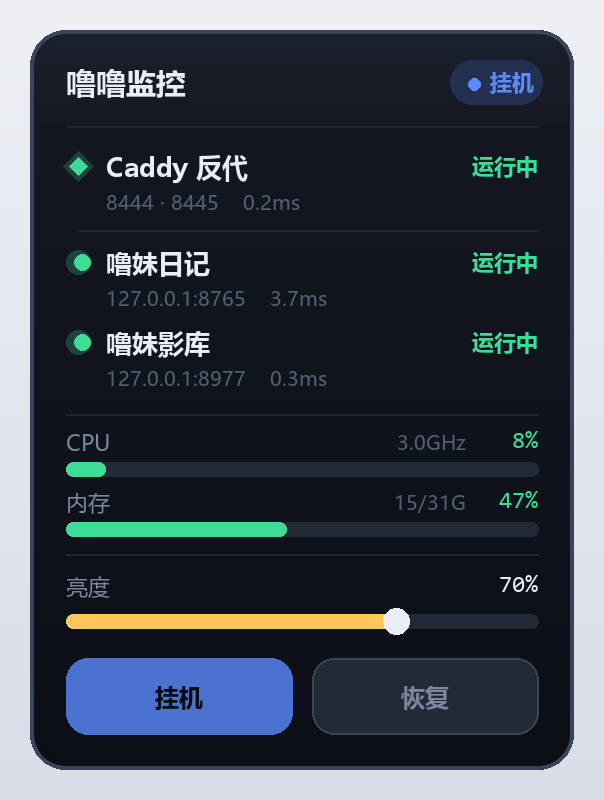
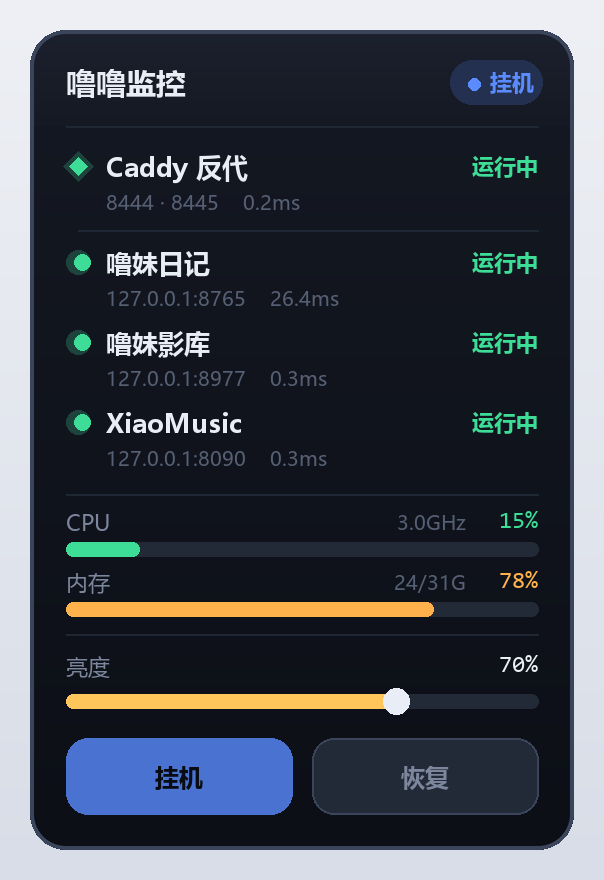
feat(widget): 服务区加一行 XiaoMusic（8090）
原来服务区写死两行（日记 8765、影库 8977），加第三个服务需要动版式。
现在服务行改成按 SERVICES 列表渲染，卡片加高 40 逻辑像素，后面的
分隔线 / CPU / 内存 / 亮度 / 按钮整体下移 40。

- SERVICES 加 (XiaoMusic, 8090)
- 服务行 rows 加第三行 (196, 214)，切片 [:2] -> [:3]
- H 370 -> 410；分隔线 192->232、262->302；CPU 206/216->246/256；
  内存 236/246->276/286；亮度 278/292->318/332，滑杆热区 284->324；
  按钮 314/352->354/392
- tray_image 色条 [:2]->[:3]、need 3/2->4/3，条距 13->12 让四条挤进 64 框
- 托盘菜单补 _svc_line(2)（该函数本来就是按下标取的，不用改）

XiaoMusic 排在服务区最后、不挂在 Caddy 下面：它跑 8090，没有进 Caddy
反代（Caddyfile 只有 443/8443/8444/8445），只在本机可达，跟那两个对外
入口不是一条链路，所以是平级的独立服务行。Caddy 挂掉不影响它显示绿色。

实测：三行全部「运行中」，日记 0.4ms / 影库 0.3ms / XiaoMusic 0.2ms；
新位置上的滑杆点击（点 75% -> 亮度变 75%）与「恢复」按钮（方案从挂机
切到恢复）都验证通过，测完已还原电源方案与亮度。

diff --git a/lulu-watch/widget.py b/lulu-watch/widget.py
@@ -62,7 +62,7 @@ SCALE = _system_scale()
 
 # ==================== 外观常量（逻辑坐标，渲染时乘 SCALE）====================
 TITLE = "噜噜监控"
-W, H = 272, 370
+W, H = 272, 410
 RADIUS = 18
 SS = 3                       # 圆角超采样倍数
 KEY = "#ff00ff"              # 透明键色
@@ -93,10 +93,11 @@ SCHEMES = {
 MODE_IDLE = "22f98355-2f49-49ce-8a7f-c138149382ce"
 MODE_NORMAL = "381b4222-f694-41f0-9685-ff5bb260df2e"
 
-SERVICES = [("噜妹日记", 8765), ("噜妹影库", 8977)]
+SERVICES = [("噜妹日记", 8765), ("噜妹影库", 8977), ("XiaoMusic", 8090)]
 
-# Caddy 是这两个服务共用的入口：8444 -> 日记、8445 -> 影库。
+# Caddy 是日记/影库共用的入口：8444 -> 日记、8445 -> 影库。
 # 它挂了两个服务会同时失联，而本机两个端口还都通，所以单独一行。
+# XiaoMusic 不在这套反代后面（8090 只在本机可达），是自己独立的一行。
 CADDY_PORTS = [8444, 8445]
 CADDY_NAME = "Caddy 反代"
 
@@ -476,9 +477,9 @@ class Brightness(threading.Thread):
 
 # ==================== 托盘图标 ====================
 def tray_image(svc=None, caddy=None):
-    """64x64：深色圆角底 + 三条状态色条（上=Caddy，中=日记，下=影库），
+    """64x64：深色圆角底 + 状态色条（上=Caddy，下面依次是各服务），
     缩小到 16px 也能看清死活。Caddy 那条画得短一点、两端带缺口，
-    一眼能和下面两条服务条区分开。"""
+    一眼能和下面几条服务条区分开。"""
     S = 64
     img = Image.new("RGBA", (S, S), (0, 0, 0, 0))
     d = ImageDraw.Draw(img)
@@ -487,16 +488,16 @@ def tray_image(svc=None, caddy=None):
     bars = []
     if caddy is not None:
         bars.append(bool(caddy))
-    bars += [bool(s.get("up")) for s in (svc or [])][:2]
-    # 不跑 Caddy 时（caddy=None）只画两条服务条，不要多出一条假的红条
-    need = 3 if caddy is not None else 2
+    bars += [bool(s.get("up")) for s in (svc or [])][:3]
+    # 不跑 Caddy 时（caddy=None）只画服务条，不要多出一条假的红条
+    need = 4 if caddy is not None else 3
     while len(bars) < need:
         bars.append(False)
     for i, up in enumerate(bars):
         c = (61, 220, 151, 255) if up else (255, 92, 108, 255)
-        y = 13 + i * 13
+        y = 9 + i * 12
         x1, x2 = (18, 46) if i == 0 else (14, 50)
-        d.rounded_rectangle([x1, y, x2, y + 8], radius=4, fill=c)
+        d.rounded_rectangle([x1, y, x2, y + 7], radius=3, fill=c)
     return img
 
 
@@ -604,8 +605,8 @@ def build_image(data, hover=None, k=None):
            fill=CLR["divider"], width=lw)
 
     # ---------- 服务状态 ----------
-    rows = [(116, 134), (156, 174)]
-    for i, s in enumerate(data.get("svc", [])[:2]):
+    rows = [(116, 134), (156, 174), (196, 214)]
+    for i, s in enumerate(data.get("svc", [])[:3]):
         cy, sy = rows[i]
         up = s.get("up")
         dotc = CLR["ok"] if up else CLR["bad"]
@@ -622,7 +623,7 @@ def build_image(data, hover=None, k=None):
         d.text((px(38), px(sy)), sub, font=F["sub"], fill=CLR["fg_faint"],
                anchor="lm")
 
-    d.line([(px(18), px(192)), (pw - px(18), px(192))],
+    d.line([(px(18), px(232)), (pw - px(18), px(232))],
            fill=CLR["divider"], width=lw)
 
     # ---------- CPU / 内存 ----------
@@ -649,13 +650,13 @@ def build_image(data, hover=None, k=None):
         cpu_hint = f"{_cf.current / 1000:.1f}GHz" if _cf and _cf.current else ""
     except Exception:
         cpu_hint = ""
-    gauge(206, 216, "CPU", float(data.get("cpu") or 0), cpu_hint)
+    gauge(246, 256, "CPU", float(data.get("cpu") or 0), cpu_hint)
     used = data.get("mem_used") or 0
     total = data.get("mem_total") or 0
-    gauge(236, 246, "内存", float(data.get("mem") or 0),
+    gauge(276, 286, "内存", float(data.get("mem") or 0),
           f"{used:.0f}/{total:.0f}G" if total else "")
 
-    d.line([(px(18), px(262)), (pw - px(18), px(262))],
+    d.line([(px(18), px(302)), (pw - px(18), px(302))],
            fill=CLR["divider"], width=lw)
 
     # ---------- 显示器亮度（只控制 2K 那台） ----------
@@ -663,22 +664,22 @@ def build_image(data, hover=None, k=None):
     bri = data.get("bright")
     bl = data.get("bright_label") or "亮度"
     # 滑杆的点击/拖动热区比可见轨道高，免得要点准那 7px 细条
-    slider = (18, 284, W - 18, 302)
+    slider = (18, 324, W - 18, 342)
     if bri is None:
-        d.text((px(18), px(276)), bl, font=F["label"], fill=CLR["fg_faint"],
+        d.text((px(18), px(316)), bl, font=F["label"], fill=CLR["fg_faint"],
                anchor="lm")
-        d.text((pw - px(18), px(276)), "不可用", font=F["sub"],
+        d.text((pw - px(18), px(316)), "不可用", font=F["sub"],
                fill=CLR["fg_faint"], anchor="rm")
-        d.text((px(18), px(293)), "这台显示器没响应 DDC/CI",
+        d.text((px(18), px(333)), "这台显示器没响应 DDC/CI",
                font=F["sub"], fill=CLR["fg_faint"], anchor="lm")
     else:
         pct = max(0, min(100, int(bri)))
-        d.text((px(18), px(278)), bl, font=F["label"], fill=CLR["fg_dim"],
+        d.text((px(18), px(318)), bl, font=F["label"], fill=CLR["fg_dim"],
                anchor="lm")
-        d.text((pw - px(18), px(278)), f"{pct}%", font=F["value"],
+        d.text((pw - px(18), px(318)), f"{pct}%", font=F["value"],
                fill=CLR["fg"], anchor="rm")
         x1, x2 = px(18), pw - px(18)
-        yb = px(292)
+        yb = px(332)
         bh = max(3, P(7))
         d.rounded_rectangle([x1, yb, x2, yb + bh], radius=bh / 2,
                             fill=CLR["track"])
@@ -699,7 +700,7 @@ def build_image(data, hover=None, k=None):
     # ---------- 按钮 ----------
     buttons = {}
     bw = (W - 36 - 10) // 2
-    by1, by2 = 314, 352
+    by1, by2 = 354, 392
     specs = [(18, "挂机", MODE_IDLE, CLR["accent"]),
              (18 + bw + 10, "恢复", MODE_NORMAL, CLR["ok"])]
     for bx, text, guid, color in specs:
@@ -1096,6 +1097,7 @@ class Widget:
                 MenuItem(lambda item: self._caddy_line(), None, enabled=False),
                 MenuItem(lambda item: self._svc_line(0), None, enabled=False),
                 MenuItem(lambda item: self._svc_line(1), None, enabled=False),
+                MenuItem(lambda item: self._svc_line(2), None, enabled=False),
                 Menu.SEPARATOR,
                 MenuItem(lambda item: self._bright_line(), None, enabled=False),
                 MenuItem("亮度 30%", lambda icon, item: self._post(

diff --git a/lulu-watch/README.md b/lulu-watch/README.md
@@ -1,6 +1,6 @@
 # 噜噜监控（lulu-watch）
 
-Windows 桌面小贴纸。透明圆角卡片，常驻右下角，实时显示本机电源模式、Caddy 入口与两个本地服务的存活状态、CPU 与内存占用、2K 显示器的亮度，并可一键切换「挂机 / 恢复」电源方案。
+Windows 桌面小贴纸。透明圆角卡片，常驻右下角，实时显示本机电源模式、Caddy 入口与三个本地服务的存活状态、CPU 与内存占用、2K 显示器的亮度，并可一键切换「挂机 / 恢复」电源方案。
 
 ![preview](preview.png)
 
@@ -11,12 +11,12 @@ Windows 桌面小贴纸。透明圆角卡片，常驻右下角，实时显示本
 | 区域 | 内容 |
 |---|---|
 | 顶部徽章 | 当前电源方案名称，颜色随方案变化（挂机=蓝、恢复=绿、守夜=紫、高性能=橙） |
-| Caddy 入口 | 8444 / 8445 哪个站点在听、握手耗时；菱形圆点 + 分隔线，表示它是下面两个服务共用的入口 |
-| 服务状态 | 噜妹日记（8765）、噜妹影库（8977）是否监听、握手耗时 ms |
+| Caddy 入口 | 8444 / 8445 哪个站点在听、握手耗时；菱形圆点 + 分隔线，表示它是下面日记/影库共用的入口 |
+| 服务状态 | 噜妹日记（8765）、噜妹影库（8977）、XiaoMusic（8090）是否监听、握手耗时 ms |
 | 指标 | CPU 占用 + 当前频率、内存占用 + 已用/总量 |
 | 亮度 | 2K 那台显示器（AOC Q27G1WG4）的 DDC/CI 硬件亮度，可拖滑杆或点滑杆直接跳；托盘菜单还有 30/50/70/100% 四档 |
 | 按钮 | 「挂机」「恢复」一键切换电源方案，当前方案按钮高亮 |
-| 托盘图标 | 右下角常驻，三条色条 = Caddy / 日记 / 影库 的存活状态（绿/红），也是挂件被盖住时的唤出入口 |
+| 托盘图标 | 右下角常驻，四条色条 = Caddy / 日记 / 影库 / XiaoMusic 的存活状态（绿/红），也是挂件被盖住时的唤出入口 |
 
 交互：
 - 左键拖动 = 移动位置（位置写入 `%APPDATA%\lulu-watch.json`，下次启动还原；改名前的 `lulu-widget.json` 也认）
@@ -69,8 +69,8 @@ python  widget.py --preview  :: 只渲染预览图 preview.png / preview_dark.pn
 
 代码里所有与本机绑定的值集中在文件头部，改这 5 处即可：
 
-1. **服务端口** —— `SERVICES = [("噜妹日记", 8765), ("噜妹影库", 8977)]`
-2. **Caddy 入口端口** —— `CADDY_PORTS = [8444, 8445]`（两个服务经 Caddy 反代对外的 TLS 端口）。不跑 Caddy 的机器上，把 `build_image()` 里「Caddy 入口」那一段连同它下面那条分隔线一起删掉，并把 `H` 减去 42、后续的 y 坐标各自上移（`rows`、`100`、`192`、`gauge` 的 206/216/236/246、亮度的 262/278/292、按钮的 314/352）；或者干脆保留这一行，让它显示「未运行」当作一个明确的口子。
+1. **服务端口** —— `SERVICES = [("噜妹日记", 8765), ("噜妹影库", 8977), ("XiaoMusic", 8090)]`
+2. **Caddy 入口端口** —— `CADDY_PORTS = [8444, 8445]`（日记/影库经 Caddy 反代对外的 TLS 端口）。不跑 Caddy 的机器上，把 `build_image()` 里「Caddy 入口」那一段连同它下面那条分隔线一起删掉，并把 `H` 减去 52、后续的 y 坐标各自上移（`rows`、`100`、`232`、`gauge` 的 246/256/276/286、亮度的 302/318/332、按钮的 354/392）；或者干脆保留这一行，让它显示「未运行」当作一个明确的口子。XiaoMusic 不在 Caddy 后面，删 Caddy 不影响它。
 3. **亮度屏** —— `find_brightness_monitor(target=(2560, 1440))` 的 `target`，只认**原生分辨率**等于它的那块屏。本机有两块 2K/4K 屏，故意用原生分辨率而不是当前分辨率来认，因为 4K 那台被人为降成 2560×1440 跑时，看当前分辨率会认错。换机器按自己那块屏的原生分辨率改；不想要亮度就设成 `target=None`（`find_brightness_monitor` 直接返回 `None`，界面显示「不可用」）。
 4. **电源方案 GUID** —— `SCHEMES` 字典与 `MODE_IDLE` / `MODE_NORMAL`。系统内置方案 GUID 是通用的：
 
@@ -99,12 +99,13 @@ python  widget.py --preview  :: 只渲染预览图 preview.png / preview_dark.pn
 
 - **按物理像素渲染**：启动时 `SetProcessDpiAwareness(1)` 取系统 DPI，`SCALE = dpi/96`，窗口尺寸与所有坐标都乘 `SCALE`，避免 4K/150% 缩放下文字被系统二次拉伸发虚。
 - **透明圆角**：窗口 `-transparentcolor #ff00ff` 抠图；圆角蒙版单独用 L 通道超采样（`SS` 倍）后二值化阈值化，避免缩放后边缘残留洋红像素。渐变背景层按 `SCALE` 缓存复用，不每帧重绘。
-- **采样与绘制解耦**：后台线程每 1.2s 采一次 `psutil` + 三次 TCP 握手（Caddy 两个端口 + 两个服务端口），放进 `queue`；主线程 `after(150ms)` 非阻塞取最新值重绘。
-- **Caddy 为什么单独一行**：8444 与 8445 是**同一个 Caddy 进程里的两个站点**，不是两个独立服务。它一挂，手机和电视两个入口同时失联，而本机 8765 / 8977 两个端口还都通 —— 这种情况在只看端口的面板上看不出来。所以 Caddy 单列一行，用**菱形**圆点与下面两个**圆形**服务点区分，并在入口与后端之间加一条更淡的分隔线，表示「这两条服务挂在它后面」。三态：两个端口都在 = 运行中（绿）、只在一个 = 部分（琥珀）、都不在 = 未运行（红）。
+- **采样与绘制解耦**：后台线程每 1.2s 采一次 `psutil` + 五次 TCP 握手（Caddy 两个端口 + 三个服务端口），放进 `queue`；主线程 `after(150ms)` 非阻塞取最新值重绘。
+- **Caddy 为什么单独一行**：8444 与 8445 是**同一个 Caddy 进程里的两个站点**，不是两个独立服务。它一挂，手机和电视两个入口同时失联，而本机 8765 / 8977 两个端口还都通 —— 这种情况在只看端口的面板上看不出来。所以 Caddy 单列一行，用**菱形**圆点与下面几个**圆形**服务点区分，并在入口与后端之间加一条更淡的分隔线，表示「这两条服务挂在它后面」。三态：两个端口都在 = 运行中（绿）、只在一个 = 部分（琥珀）、都不在 = 未运行（红）。
+- **XiaoMusic 为什么排在服务区最后、而不是挂在 Caddy 下**：它跑在 8090，**没有**进 Caddy 反代，只在本机可达，跟 8444/8445 那两个对外入口不是一条链路。所以它是一个普通的独立服务行，和日记/影库平级，只在位置和顺序上排在后面；Caddy 挂掉不影响它显示绿色，这是对的。
 - **切换方案不卡界面**：点击后先乐观更新徽章颜色，再后台 `subprocess` 调 `powercfg /setactive`，完成后回读真实值。
 - **层级**：默认不置顶（`-topmost` 关闭，不做定时强制）。需要常驻最前时由用户勾选「始终置顶」，此时才每 2.5s 用 `SetWindowPos(HWND_TOPMOST)` 重申一次（其他程序的置顶窗会压过 tk 自己的属性）。
 - **托盘**：`pystray` 在独立线程跑消息循环。无边框窗口不在任务栏显示，一旦被别的窗口盖住就点不到，托盘图标是唯一的唤出入口。托盘回调不能直接碰 tk 控件（tk 非线程安全），统一投进 `queue`，由主线程 `_poll` 消费；菜单文本用 callable，每次弹出时实时求值，所以状态是活的。
-- **托盘图标兼作状态灯**：Caddy 或任一服务的存活状态一变，重画图标（三条色条由绿转红，上=Caddy、中=日记、下=影库），不用展开挂件也知道有没有东西挂了。
+- **托盘图标兼作状态灯**：Caddy 或任一服务的存活状态一变，重画图标（色条由绿转红，上=Caddy，下面依次=日记、影库、XiaoMusic），不用展开挂件也知道有没有东西挂了。
 - **亮度为什么单独一条线程**：`GetMonitorBrightness` / `SetMonitorBrightness` 走 DDC/CI，实测一次 **58–63ms**。在主线程里拖滑杆会一卡一卡的，所以亮度读写全交给 `Brightness` 线程：拖动时只把「最后一次意图」记下（`_want`），线程取走就写，写不完的中间值直接丢掉，不排队。界面先用乐观值跟着手走。
 - **拖动时为什么会「乱蹦」，以及怎么修的**：线程每写完一次都会把实际值回传主线程，主线程 `self.data.update()` 一合并就会覆盖乐观值。手推到 80% 时线程可能才写完 60%，回显把把手拽回 60%，下一次鼠标移动又推到 80% —— 看起来就是在 60/80 之间跳。修法是给每次意图编号（`Brightness.set()` 返回递增的 `_seq`），回显带上写入时的序号，主线程 `_poll` 里 `if seq < self._bright_seq: continue` 丢掉过期回显。另外两处配套：拖动中 `_on_slider(e, sticky=True)` 不再要求鼠标留在那 18px 窄带内（否则手一上下偏滑杆就卡住），只把 x 夹到轨道两端；空闲回读也在读之前先取序号，避免把「拖动前的旧值」错当成新值放过去。
 - **怎么认出「2K 那台」**：不按当前分辨率认。4K 那台（`\\.\DISPLAY1`，Mi Monitor，原生 3840×2160）平时被人为降到 2560×1440@160 跑，按当前分辨率筛会把两台都认成 2K。所以 `_native_size()` 逐条枚举 `EnumDisplaySettingsW` 的模式表取最大像素数，只有原生等于 `(2560, 1440)` 的才接受 —— 也就是 `\\.\DISPLAY5`（AOC Q27G1WG4）。**4K 那台连句柄都不打开**，从根上保证碰不到它。
@@ -117,7 +118,7 @@ python  widget.py --preview  :: 只渲染预览图 preview.png / preview_dark.pn
 - 无边框窗口不出现在任务栏，被其他窗口盖住时只能从托盘图标唤出（曾试过 Ctrl+Alt 全局热键，已弃用）。
 - Win11 上新注册的托盘图标可能被折叠进「^ 溢出区」，拖到任务栏上固定一次即可。
 - 切换电源方案本身不需要管理员权限，但如果目标方案被组策略锁定，`powercfg /setactive` 会静默失败，徽章会回读显示真实方案。
-- 探测是 TCP 握手，只能判断端口是否在监听，不代表服务内部逻辑健康；Caddy 同理，只看 8444/8445 在不在听，不代表证书和反代规则都对。
+- 探测是 TCP 握手，只能判断端口是否在监听，不代表服务内部逻辑健康；Caddy 同理，只看 8444/8445 在不在听，不代表证书和反代规则都对。XiaoMusic 也没有 `/health` 之类的健康端点（`/api/health`、`/api/status` 全是 404），所以它同样只看 8090 在不在听。
 - 亮度只对**支持 DDC/CI 的那台**有效。本机 2K 的 AOC 支持硬件调光（真的改背光、省电）；4K 的 Mi Monitor 走 DP 不响应 DDC/CI，所以挂件不控制它 —— 它原来的「调暗」是 Gamma 软件曲线，不省电、黑色发灰，挂件没有沿用那套。
 - DDC/CI 和显示器自带菜单、其他调光软件会互相抢：同时开两个程序写亮度，会出现「滑杆回弹」或「调了又被改回去」。之前桌面上那个 `显示器亮度`（`BrightnessCtl.exe`）已经删掉，现在只有挂件在写这块屏。
 - 亮度滑杆只在识别到显示器时才出现；识别不到（`find_brightness_monitor` 返回 `None`）时显示「不可用 / 这台显示器没响应 DDC/CI」，不会假装能调。
